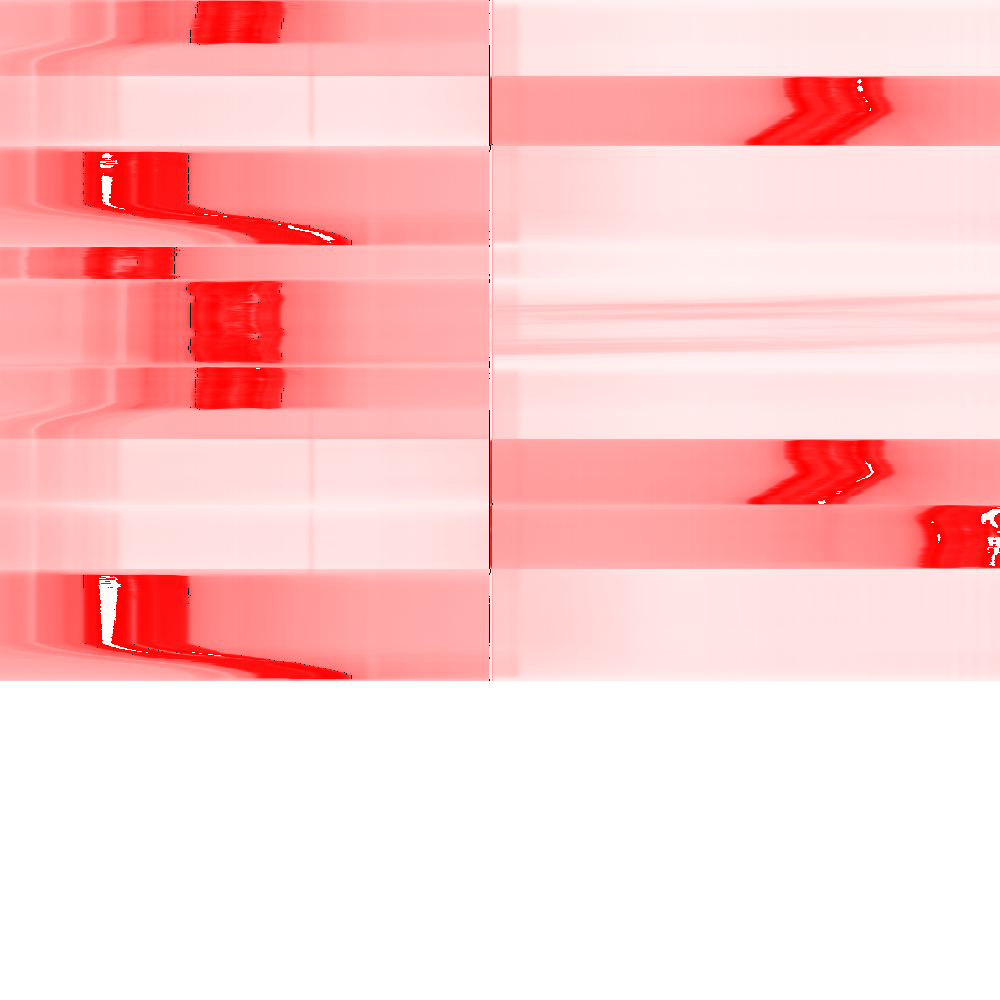
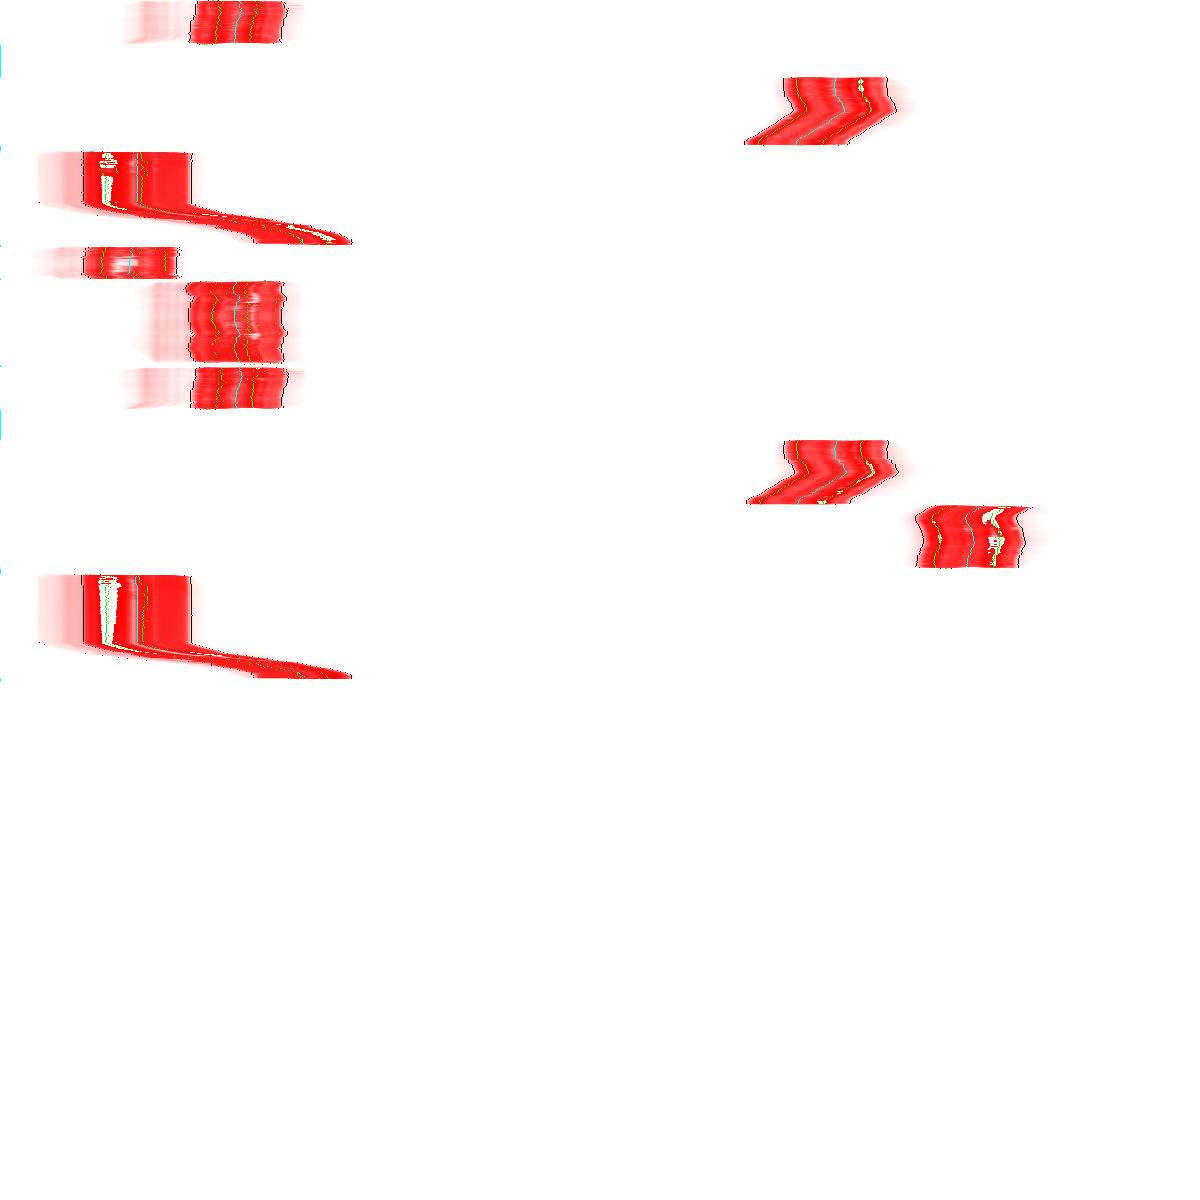
Fixed the problem with the high temperatures between the 2 cages measurements.

diff --git a/dataBuilder/package main.go b/dataBuilder/package main.go
@@ -16,17 +16,23 @@ import (
 	"strings"
 	"time"
 )
-var SEUIL_MAX_IMAGE = 1200
-var LINE_COUNT int = -1
-var FINAL_IMAGE *image.RGBA = image.NewRGBA(image.Rect(0, 0, 1000, 1000))
+// Variables used to print the image
+var(
+    SEUIL_MAX_IMAGE = 1200
+    LINE_COUNT int = -1
+    FINAL_IMAGE *image.RGBA = image.NewRGBA(image.Rect(0, 0, 1200, 1200))
+    local_lower_index int = 0
+)
 
-var PROCESSED_LINES []KeyValues
-var NUMBER_FIRST_MEASURES_REMOVED int = 5
-var TIME_FORMAT string = "2006-01-02 15:04:05,999"
-var TIME_FORMAT_REQUESTS string = "2006-01-02 15:04:05"
-var TEMPERATURE_THRESHOLD float64 = 650
-var GRADIENT_LIMIT_FACTOR float64 = 3
-var WIDTH_LIMIT int32 = 2
+var(
+    PROCESSED_LINES []KeyValues
+    NUMBER_FIRST_MEASURES_REMOVED int = 5
+    TIME_FORMAT string = "2006-01-02 15:04:05,999"
+    TIME_FORMAT_REQUESTS string = "2006-01-02 15:04:05"
+    TEMPERATURE_THRESHOLD float64 = 800
+    GRADIENT_LIMIT_FACTOR float64 = 3
+    WIDTH_LIMIT int32 = 2
+)
 
 // Contains the important value of a line
 type KeyValues struct{
@@ -167,6 +173,7 @@ func test(file_path string){
 // Threshold the values then crop 
 func threshold_crop_line(measurement_string_array []string)([]float64, error){
     LINE_COUNT ++ // For image
+    fmt.Println("Size : ", len(measurement_string_array))
 
     thresholded_temperatures_array := make([]float64, len(measurement_string_array))
     if len(measurement_string_array)<1{ // Case : empty string array
@@ -208,6 +215,7 @@ func threshold_crop_line(measurement_string_array []string)([]float64, error){
 
     // For image
     FINAL_IMAGE.Set(lower_index_crop, LINE_COUNT, color.RGBA{0, 0, 0, 255})
+    local_lower_index = lower_index_crop
     FINAL_IMAGE.Set(higher_index_crop, LINE_COUNT, color.RGBA{0, 0, 0, 255})
     return thresholded_temperatures_array[lower_index_crop:higher_index_crop+1], nil
 }
@@ -216,6 +224,7 @@ func write_values (timestamp time.Time, filtered_temperature_array []float64)err
     // Initialise local vaariables
     width := len(filtered_temperature_array)
     half_index := (width+1)/2-1 // round up the index
+    FINAL_IMAGE.Set(local_lower_index+half_index, LINE_COUNT, color.RGBA{0, 255, 255, 255})
     max_index_tr1 := int32(0)
     max_index_tr3 := int32(0)
     sum_tr1 := float64(0)
@@ -273,6 +282,10 @@ func write_values (timestamp time.Time, filtered_temperature_array []float64)err
         Mean_Tr3: mean_tr3,
         Width: int32(width),
     })
+
+    // For final image 
+    FINAL_IMAGE.Set(int(max_index_tr1)+local_lower_index, LINE_COUNT, color.RGBA{0, 255, 0, 255})
+    FINAL_IMAGE.Set(int(max_index_tr3)+local_lower_index, LINE_COUNT, color.RGBA{0, 255, 0, 255})
     
     return nil
 }
@@ -286,7 +299,7 @@ func process_line(line_string string)error{
         return parsing_error
     }
     // Remove the columns we don't use
-    measures := append(splited_line[1+NUMBER_FIRST_MEASURES_REMOVED:495], splited_line[506:len(splited_line)-4]...)
+    measures := append(splited_line[1+NUMBER_FIRST_MEASURES_REMOVED:500], splited_line[510:len(splited_line)-4]...)
     // Do the thresholding and the crop of the measures
     thresholded_temperatures, threshold_crop_error := threshold_crop_line(measures)
     if (threshold_crop_error != nil){
